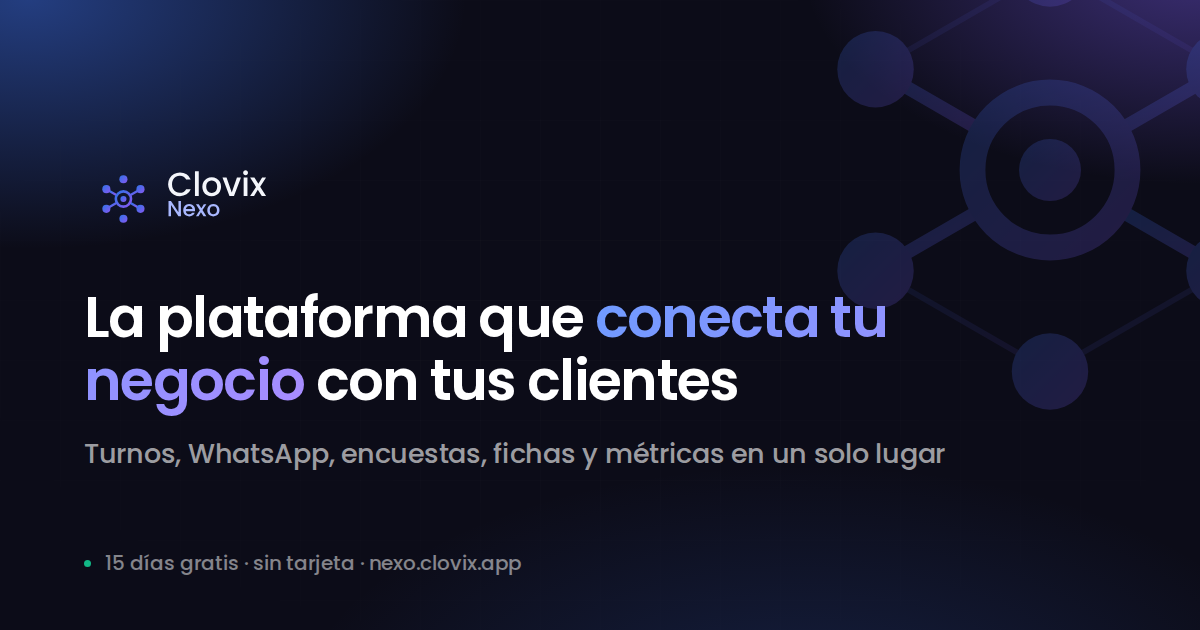
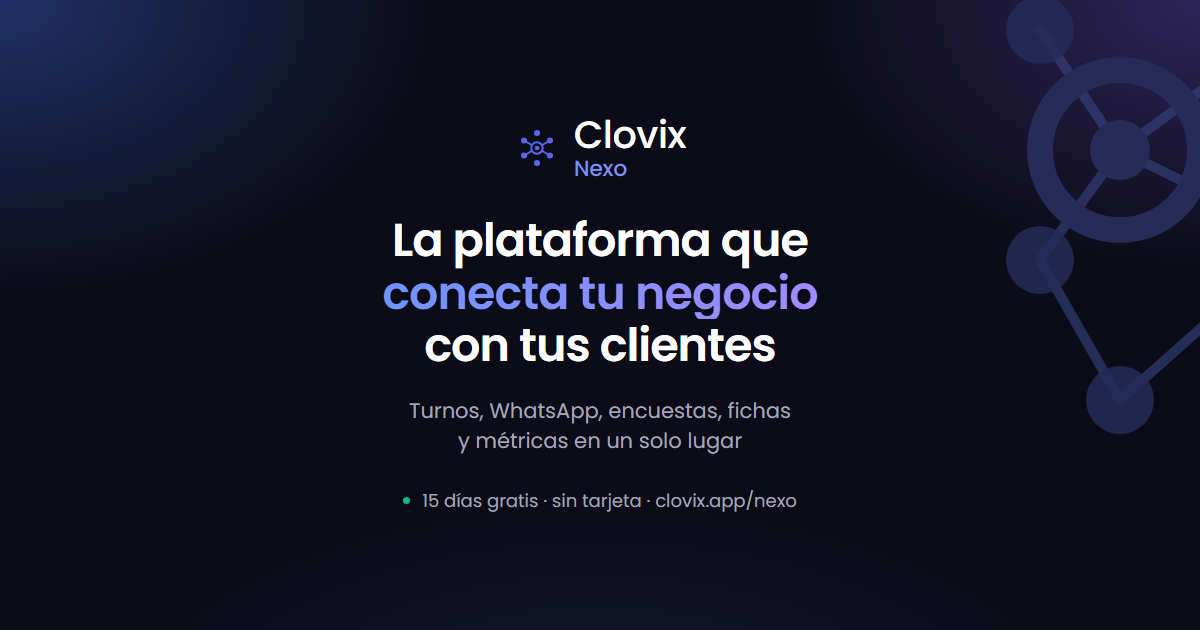
landing: descripción "con inteligencia artificial incorporada" e imágenes para compartir centradas
- La descripción de la home (description y openGraph) y la del layout
  terminan en "con inteligencia artificial incorporada".
- app/opengraph-image.png y app/nexo/opengraph-image.png: Instagram, en los
  mensajes privados, recorta la vista previa casi en cuadrado por el centro
  y se perdía el principio de cada línea. Siguen en 1200×630, con el
  contenido centrado adentro de una zona segura de 630×630 (con 36 px de
  margen adentro). Mismos colores, Poppins y fondo; los nodos quedan de
  fondo, afuera de esa zona. En la de Nexo el dominio pasa a clovix.app/nexo.
- scripts/og/generar-og.mjs las genera con Chrome y mide que todo entre en
  la zona segura; si algo se sale, no guarda la imagen.

diff --git a/app/page.tsx b/app/page.tsx
@@ -8,11 +8,11 @@ import { ContactForm } from "@/components/ContactForm";
 
 export const metadata: Metadata = {
   title: "Clovix — Proveedor de soluciones de inteligencia artificial",
-  description: "Clovix construye y opera soluciones de inteligencia artificial para negocios de servicios: una plataforma propia de productos SaaS con inteligencia artificial adentro.",
+  description: "Clovix construye y opera soluciones de inteligencia artificial para negocios de servicios: una plataforma propia de productos SaaS con inteligencia artificial incorporada.",
   alternates: { canonical: "/" },
   openGraph: {
     title: "Clovix — Proveedor de soluciones de inteligencia artificial",
-    description: "Clovix construye y opera soluciones de inteligencia artificial para negocios de servicios: una plataforma propia de productos SaaS con inteligencia artificial adentro.",
+    description: "Clovix construye y opera soluciones de inteligencia artificial para negocios de servicios: una plataforma propia de productos SaaS con inteligencia artificial incorporada.",
     url: "/",
     siteName: "Clovix",
     locale: "es_AR",

diff --git a/app/layout.tsx b/app/layout.tsx
@@ -18,7 +18,7 @@ export const metadata: Metadata = {
     template: "%s | Clovix",
   },
   description:
-    "Clovix construye y opera soluciones de inteligencia artificial para negocios de servicios: una plataforma propia de productos SaaS con inteligencia artificial dentro.",
+    "Clovix construye y opera soluciones de inteligencia artificial para negocios de servicios: una plataforma propia de productos SaaS con inteligencia artificial incorporada.",
   manifest: "/site.webmanifest",
   openGraph: {
     siteName: "Clovix",
